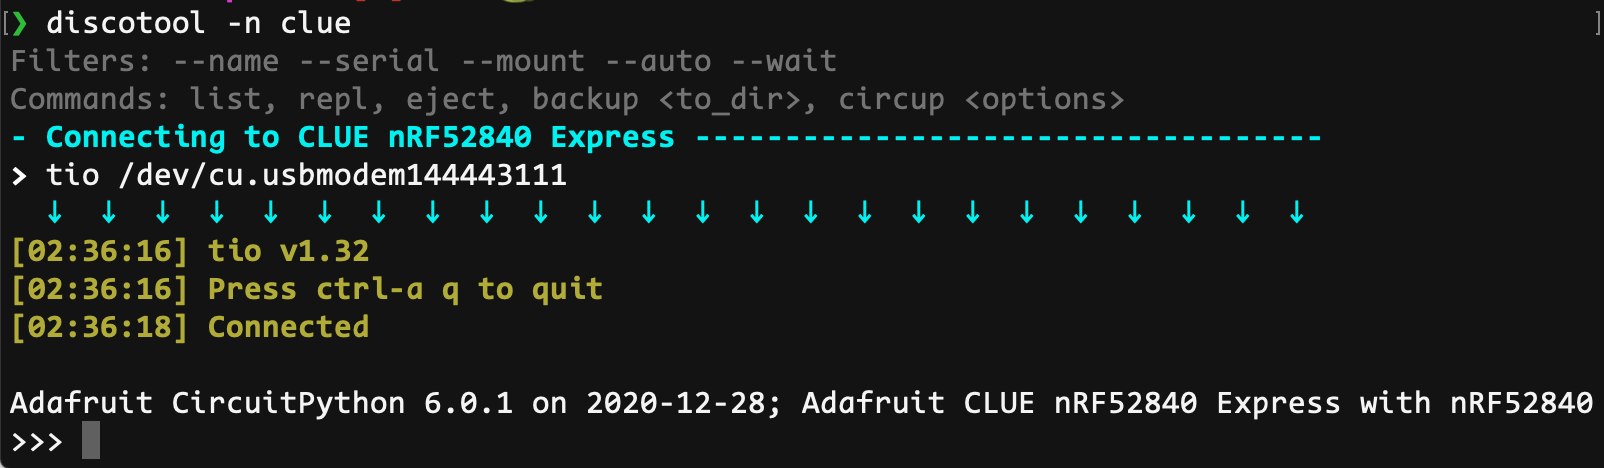
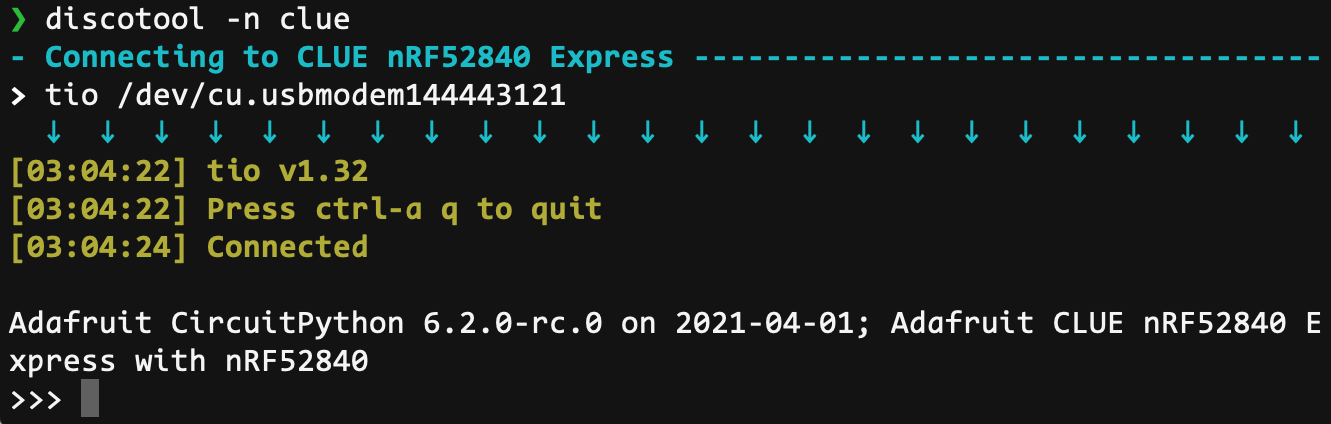
updating screenshots and fixing 1 or 2 notes

diff --git a/README.md b/README.md
@@ -28,7 +28,7 @@ Python modules required: `python3 -m pip install pyserial psutil click` and `pyu
 Define environment variables to override the default command line tools used by discotool. They are called by appending the relevant parameters at the end.
 - `DISCOTOOL_SERIALTOOL` (`screen`) command to connect to the REPL (tio, picocom, etc.)
 - `DISCOTOOL_CIRCUP` (`circup`) command to call circup (`pip install` it for the default)
-- `DISCOTOOL_NOCOLOR` disables colors in the output is it evaluates to True
+- `DISCOTOOL_NOCOLOR` disables colors in the output if it evaluates to True
 
 ### Command line options
 
@@ -70,14 +70,12 @@ Filters select boards from the list of devices found to run a command on them. T
 #### Examples:
 
 `discotool`
-![discotool list](docs/list_clue_qt_s2.png)
+![discotool list](docs/list_clue_ttgo_tiny.png)
 
-`discotool -n clue`  
-(using `tio`)
+`DISCOTOOL_SERIALTOOL=tio discotool -n clue`
 ![discotool repl](docs/repl_to_clue.png)
 
 `discotool -n clue circup update`
-![discotool circup](docs/circup_to_clue.png)
-
+![discotool circup](docs/circup_update_clue.png)
 
 [Samples of what output you can expect from some boards.](docs/examples.md)

diff --git a/docs/examples.md b/docs/examples.md
@@ -133,7 +133,7 @@ Huzzah 32
 	/dev/cu.usbmodem7CDFA103B6741
 	/Volumes/FEATHERS2 v6.1.0-rc.0
 ```
-##### Ejecting drives
+##### Ejecting drives (Mac only for now)
 ```
 - EJECTING DRIVES -------------------------------------------------------
 Ejecting: FEATHERS2
